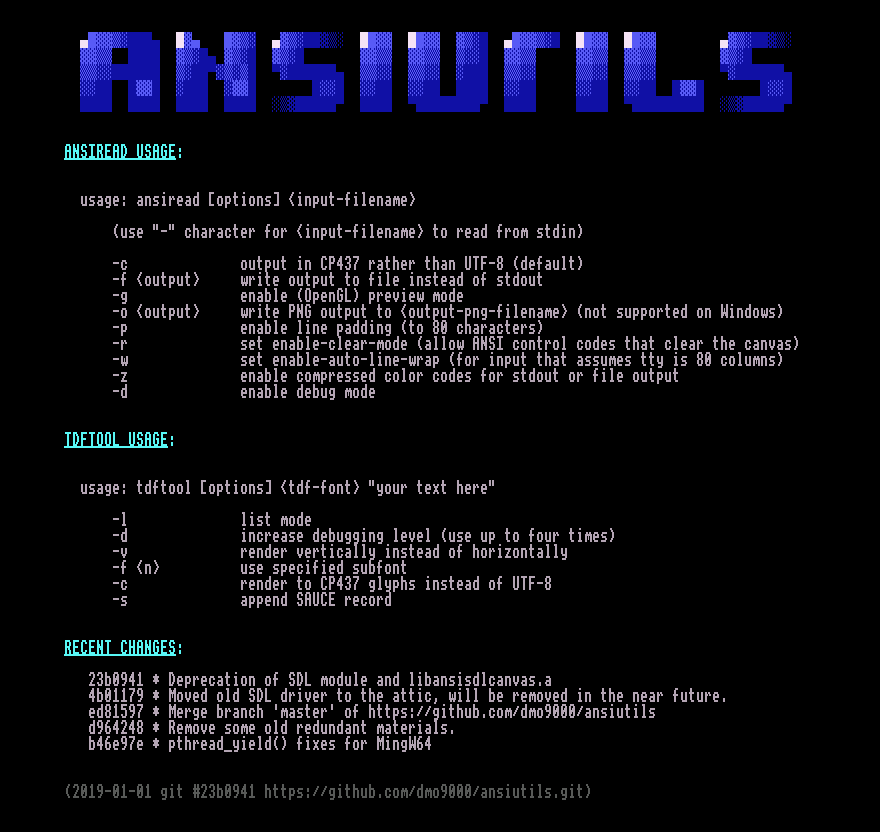
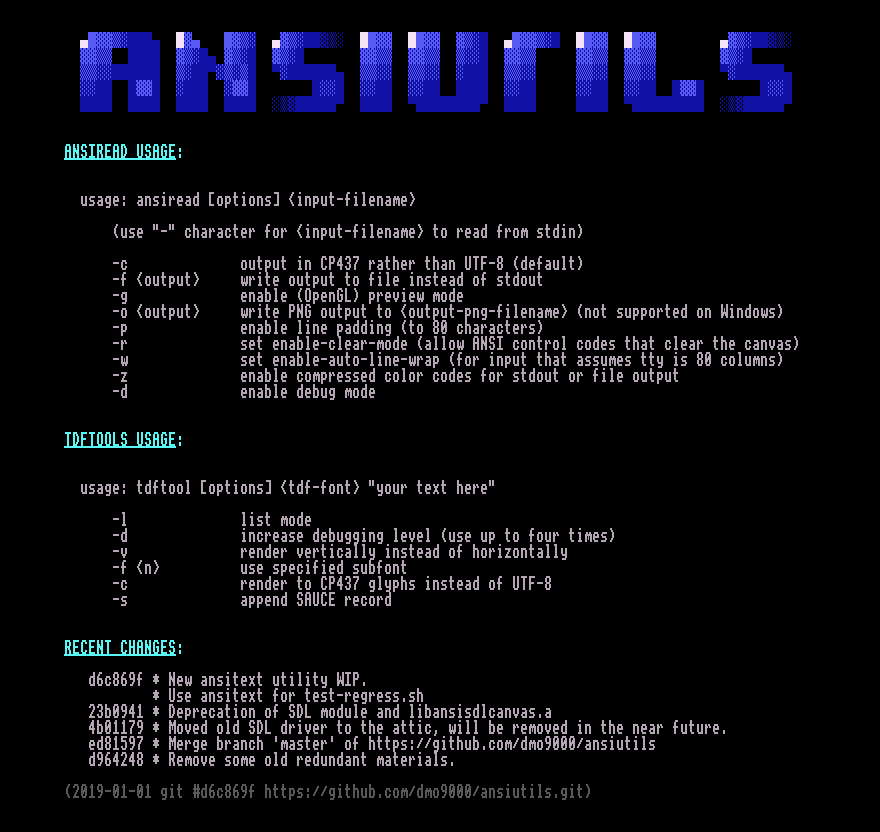
Use ansitext for generating docs instead of hardcoded ANSI sequences.

Changed region(s): [[0.092, 0.8125, 0.8284, 0.9688], [0.1227, 0.5, 0.1534, 0.5312]]

diff --git a/ansitext.c b/ansitext.c
@@ -8,9 +8,20 @@ typedef struct ansicommand {
 
 ANSICommand commands[] = {
 														{ "NONE", "\x1b[0m" },
+														{ "BOLD", "\x1b[1m" },
+														{ "NOBOLD", "\x1b[21m" },
+														{ "UNDERLINE", "\x1b[4m" },
+														{ "NOUNDERLINE", "\x1b[24m" },
+														{ "FG_BLACK", "\x1b[30m" },
 														{ "FG_RED", "\x1b[31m" },
 														{ "FG_GREEN", "\x1b[32m" },
+														{ "FG_YELLOW", "\x1b[33m" },
+														{ "FG_BLUE", "\x1b[34m" },
+														{ "FG_PURPLE", "\x1b[35m" },
+														{ "FG_CYAN", "\x1b[36m" },
+														{ "FG_WHITE", "\x1b[37m" },
 														{ "FG_NONE", "\x1b[37m" },
+														{ "TAB", "\t" },
 														{ "NEWLINE", "\n" },
 														{ NULL, NULL }, 
 														NULL
